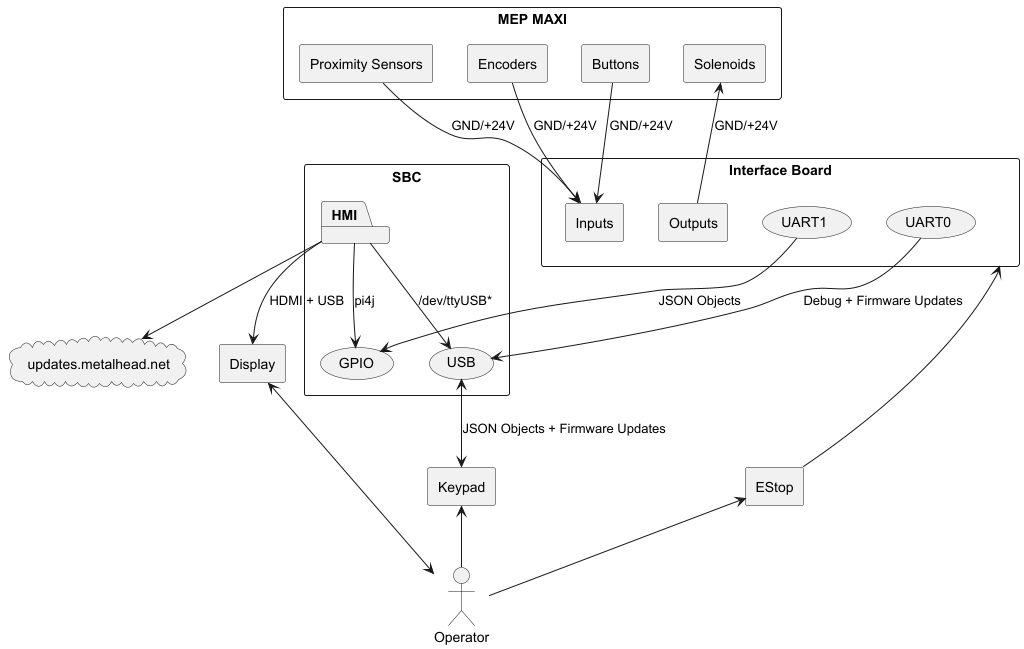
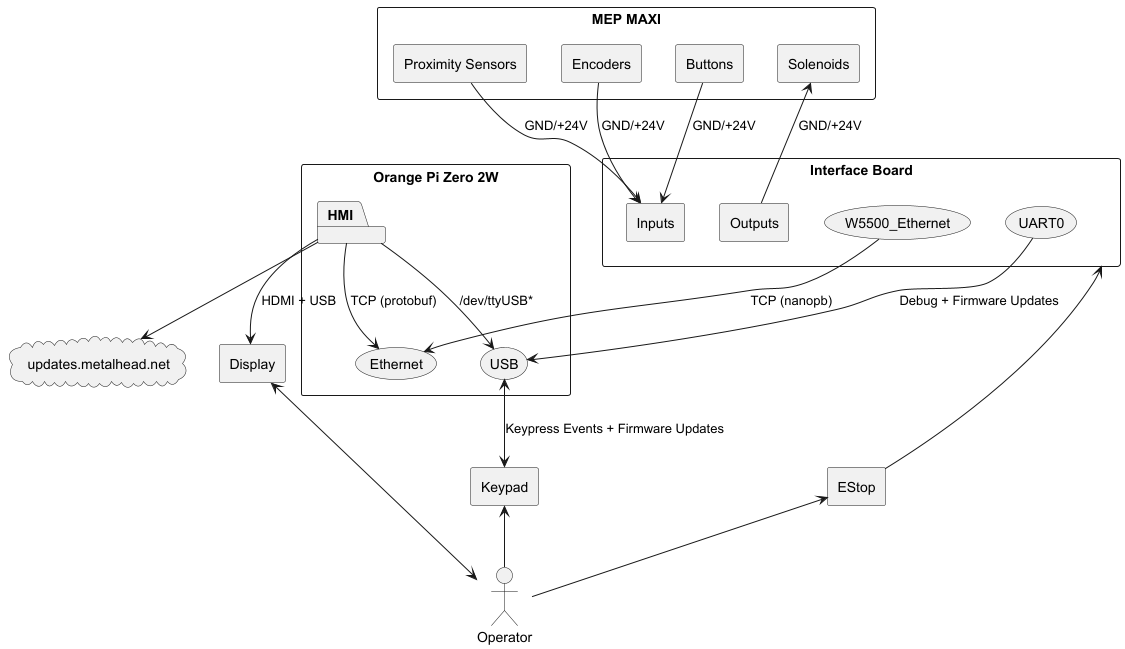
Updated README.md
Updated REAME.md. More changes to come as project matures.

diff --git a/README.md b/README.md
@@ -1,6 +1,8 @@
 ![MetalHead](docs/assets/metalhead.png)
 
-What is MetalHead and the short story behind the name
+An opensource firmware and software drop-in replacement for the 85V Automatic Stirrup Bender by CRS Specialties Inc.
+...short story behind the name...
+
 
 # System Block Diagram
 ![Block Diagram](docs/assets/block-diagram.png)
@@ -8,19 +10,11 @@ What is MetalHead and the short story behind the name
 ---
 
 # Firmware
-## Interface Board
-To setup a development environment:
-Download & install [PlatformIO](https://docs.platformio.org/en/latest/core/installation/methods/installer-script.html)
-* Download and install [CLion](https://www.jetbrains.com/clion/)
-  * Alternative: [Microsoft Visual Studio Code](https://apps.microsoft.com/detail/xp9khm4bk9fz7q?query=python&hl=en-US&gl=US)
-* Install [PlatformIO CLion plugin](https://plugins.jetbrains.com/plugin/13922-platformio-for-clion)
-  * Alternative: [Microsoft Visual Studio Code PlatformIO plugin](https://platformio.org/install/ide?install=vscode)
-### Arduino API
-To develop the Arduino API:
-* Open MetalHead/firmware/interface-board in your preferred IDE (CLion / VSCode)
-### Zephyr RTOS
+### HMI - Zephyr RTOS
 * It's preferred to use CLion, 
 * [Download](https://apps.microsoft.com/search?query=python&hl=en-US&gl=US) and install the latest version of python
+* Install wget and 7Zip so that they're accessible via cmd:
+  * `choco install wget 7zip`
 * Verify python is accessible via cmd:
   * `python -V`
 * Create python virtual environment
@@ -34,6 +28,8 @@ To develop the Arduino API:
   * `pip install west`
 * Initiate the Zephyr-RTOS project
   * `west init`
+* Set BOARD to rpi-pico
+  * `west config zephyr.board rpi_pico`
 * Pull the latest commits from Zephyr's github
   * `west update`
 * Export a Zephyr CMake package. This allows CMake to automatically load boilerplate code required for building Zephyr applications.
@@ -47,167 +43,47 @@ To develop the Arduino API:
 * Copy bossac.exe to C:\Program Files (x86)\BOSSA
 * Add C:\Program Files (x86)\BOSSA to PATH environment (use `sysdm.cpl`)
   * Make sure you can access bossac.exe. Open a new terminal and run: `bossac --help`
+* Copy bossac.py from `MetalHead\firmware\interface-board-zephyr` to `MetalHead\firmware\interface-board-zephyr\zephyr\scripts\west_commands\runners`
 * Start CLion
 * Open our project: MetalHead\firmware\interface-board-zephyr\application
-* You will more than likely need to adjust the COM port for bossac to upload the firmware. In CLion, this is achieved by editing the West configuration under 'Flash options'
+* Configure python interpreter for west
+  * Go to File -> Settings -> Languages & Frameworks -> Python
+  * Select the python interpreter from the list
 
-To build a pristine copy of the firmware binary:
+To build a pristine copy of the firmware binary:[.gitignore](.gitignore)
 
   * `cd MetalHead\firmware\interface-board-zephyr`
   * `rmdir /q /s application\build`
   * Go back to CLion and reload West
   * Build, flash, etc
 
-We are using [ArduinoJson](https://arduinojson.org/) to serialize and deserialize json objects between the Interface
-Board and HMI. All JSON objects will have `ObjectType` to identify the type of message being transferred or received.
-This will make it easy to deserialize a JSON object into one of our own objects.
-### Recipe
-The following JSON object is used inside of `PresetRecipes`
-```json
-{
-  "ObjectType": "Recipe",
-  "Lines": [[0,0,0,0,0], [], [], [], [], ...],
-  "rebarSize": 0,
-  "name": "12x12 Square",
-  "desc": "A basic 1 x 1' square stirrup",
-  "note": "Add some compensation for #5 or #6",
-  "date": 1739089653
-}
-```
-### PresetRecipes
-The following JSON object is transferred to the HMI from the Interface Board via UART.
-This object holds all preset recipes saved in the EEPROM.
-> We could also implement this into the HMI application 
-```json
-{
-  "ObjectType": "PresetRecipes",
-  "NumofRecipes": 16,
-  "Recipes": [Recipe{}, Recipe{}, ...]
-}
-```
-### PresetRecipe
-The following JSON object is transferred to the Interface Board from the HMI UART.
-This object holds a recipe that the operator wishes to save.
-```json
-{
-  "ObjectType": "PresetRecipe",
-  "Recipe": {}
-}
-```
-### ManualRecipe
-The following JSON object is transferred to the Interface Board from the HMI via UART.
-This object instructs the interface to make the following recipe.
-```json
-{
-  "ObjectType": "ManualRecipe",
-  "Recipe": {}
-}
-```
-### StopEvent
-The following JSON object is transferred to the HMI from the Interface Board via UART.
-This object instructs the HMI to display a message. There are currently two types of events.
-```json
-{
-  "ObjectType": "StopEvent",
-  "Event": "EStop"
-}
-```
-```json
-{
-  "ObjectType": "StopEvent",
-  "Event": "Fuse"
-}
-```
----
-## Keypad
-Similarly to the Interface Board, we are using [ArduinoJson](https://arduinojson.org/) to serialize and deserialize
-json objects between the Keypad and HMI
-### KeypadEvent - Structure
-KeypadEvent is sent to the Interface Board via UART when the operator hits a key. Multiple KeypadEvent[s] will be sent
-to the Interface Board if the operator depresses a key for longer than a typical keystroke. Below are a few examples of
-what a KeypadEvent structure sent via UART to the Interface Board would look like. Since the Keypad communicates to the
-HMI uni-directionally on its own separate UART channel, we will not include `ObjectType` in the JSON object.
-
-```json
-{
-  "Key": "DISPLAY"
-}
-```
-```json
-{
-  "Key": "COMP"
-}
-```
-```json
-{
-  "Key": "UPARROW"
-}
-```
-### Key Mapping
-Because we are going to be using two 16 bit I2C GPIO expanders, we are going to map each key to a specific bit on a I2C 
-address.
-
-| I2C Read<br/>Address | Bit | Key          |
-|----------------------|:---:|--------------|
-| 0x41                 |  0  | Display      |
-| 0x41                 |  1  | Comp         |
-| 0x41                 |  3  | Infeed       |
-| 0x41                 |  4  | Head Pos     |
-| 0x41                 |  5  | Form Tool In |
-| 0x41                 |  6  | Shear        |
-| 0x41                 |  7  | Pause        |
-| 0x41                 |  8  | Run          |
-| 0x41                 |  9  | Up           |
-| 0x41                 | 10  | Enter        |
-| 0x41                 | 11  | 1            |
-| 0x41                 | 12  | 2            |
-| 0x41                 | 13  | 3            |
-| 0x41                 | 14  | Plus         |
-| 0x41                 | 15  | Left         |
-| 0x43                 |  0  | Menu         |
-| 0x43                 |  1  | Right        |
-| 0x43                 |  3  | 4            |
-| 0x43                 |  4  | 5            |
-| 0x43                 |  5  | 6            |
-| 0x43                 |  6  | Minus        |
-| 0x43                 |  7  | Memory       |
-| 0x43                 |  8  | Down         |
-| 0x43                 |  9  | Decimal      |
-| 0x43                 | 10  | 7            |
-| 0x43                 | 11  | 8            |
-| 0x43                 | 12  | 9            |
-| 0x43                 | 13  | 0            |
 
 ---
 
 # Software
-## HMI
-### KeypadEvent
-When the HMI receives a `KeypadEvent` from the keypad, the object is forwarded to the Interface Board for processing.
-The following is an example of how a `KeypadEvent` looks like when the HMI sends it to the Interface Board.
-```json
-{
-  "ObjectType": "KeypadEvent",
-  "Event": "SHEAR"
-}
-```
-```json
-{
-  "ObjectType": "KeypadEvent",
-  "Event": "PAUSE"
-}
-```
-The following keys are forwarded to the Interface Board from the HMI:
-* FORM TOOL IN
-* SHEAR
-* PAUSE
-* RUN
+### HMI - Crude Edition
+![MetalHead HMI Crude Edition](docs/assets/metalhead-hmi-crude-edition.jpg)
+
+This is a simple unpolished version of the HMI app that will eventually run on the orange pi.
+This version is mostly for implementation and testing purposes.
+### HMI
+The polished version of the HMI app. This app version be able to accomplish the following:
+* Must be able to communicate with the interface board bi-directionally
+* Display all relevant information in realtime.
+* Recognize user input from the custom keypad
+* Offer simple 'wizards' that visually guide operators to make common shapes
+
+Nice to have features:
+* Auto-update HMI software by communicating to a remote server
+* Auto-update interface firmware by communicating to a remote server
+* Include a section for custom stirrup calculators/guides
+* Include instructional videos on using the machinery
 
 ---
 
 # Hardware
-## Interface Board
-A brief explanation of what this does and how it achieves it. Mention the added SBC for the GUI.
-## Keypad
-A brief explanation of what this does and how it achieves it. 
-## SBC
+### Interface Board
+![MetalHead Interface Board](docs/assets/metalhead-interface-board.png)
+
+### Keypad
+![MetalHead Keypad](docs/assets/metalhead-keypad.png)
